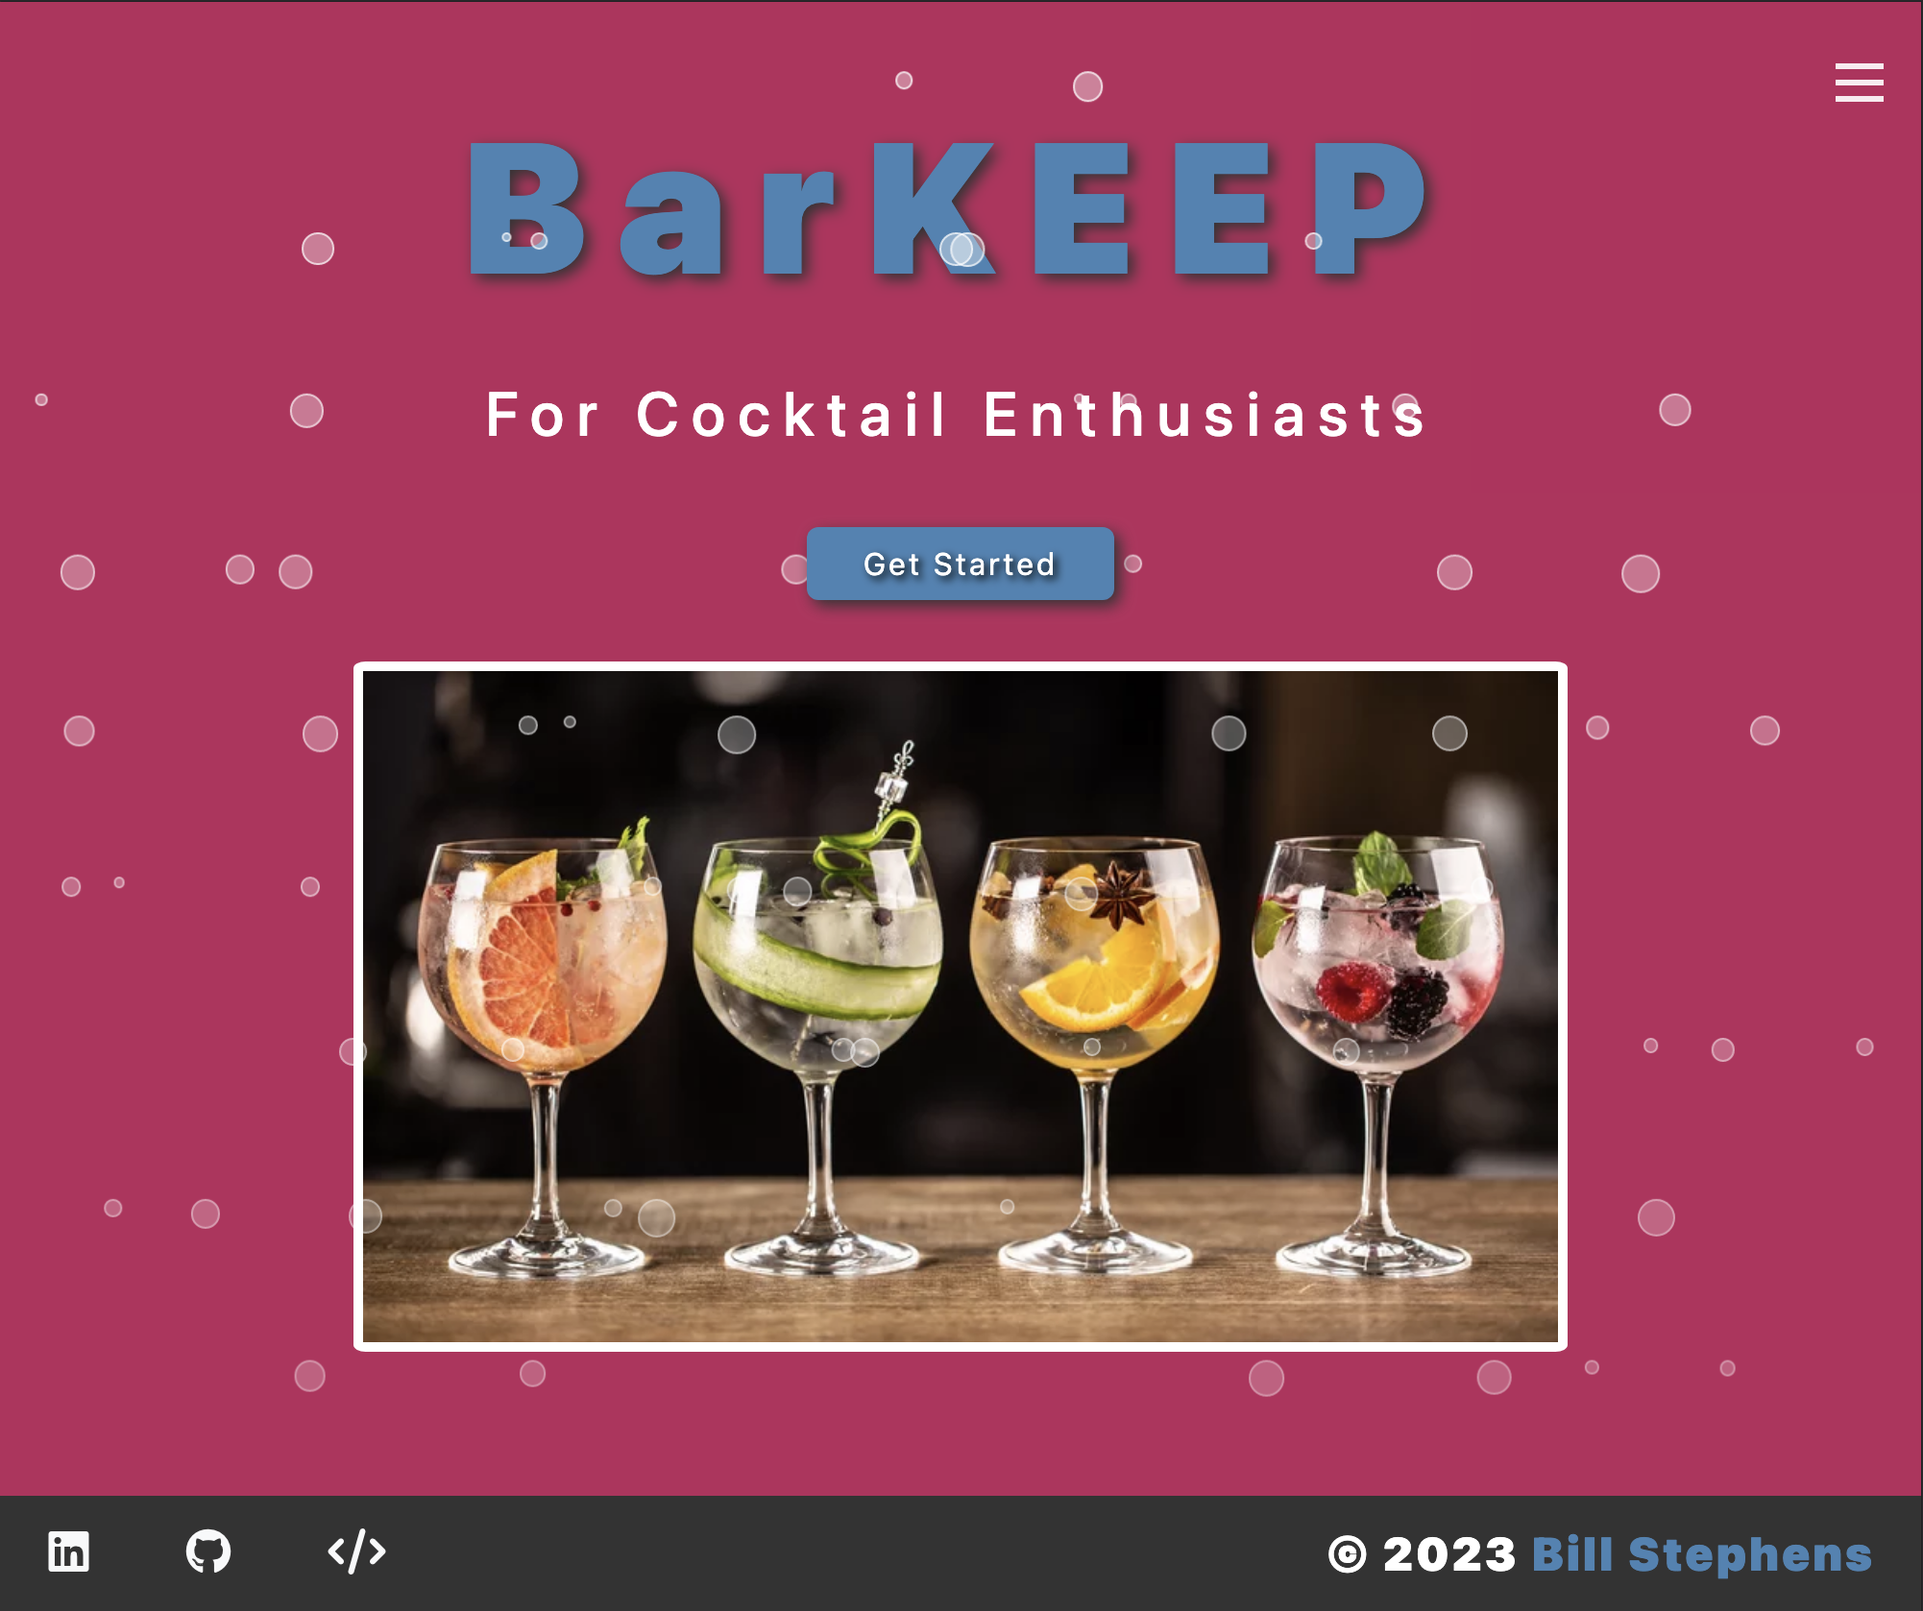
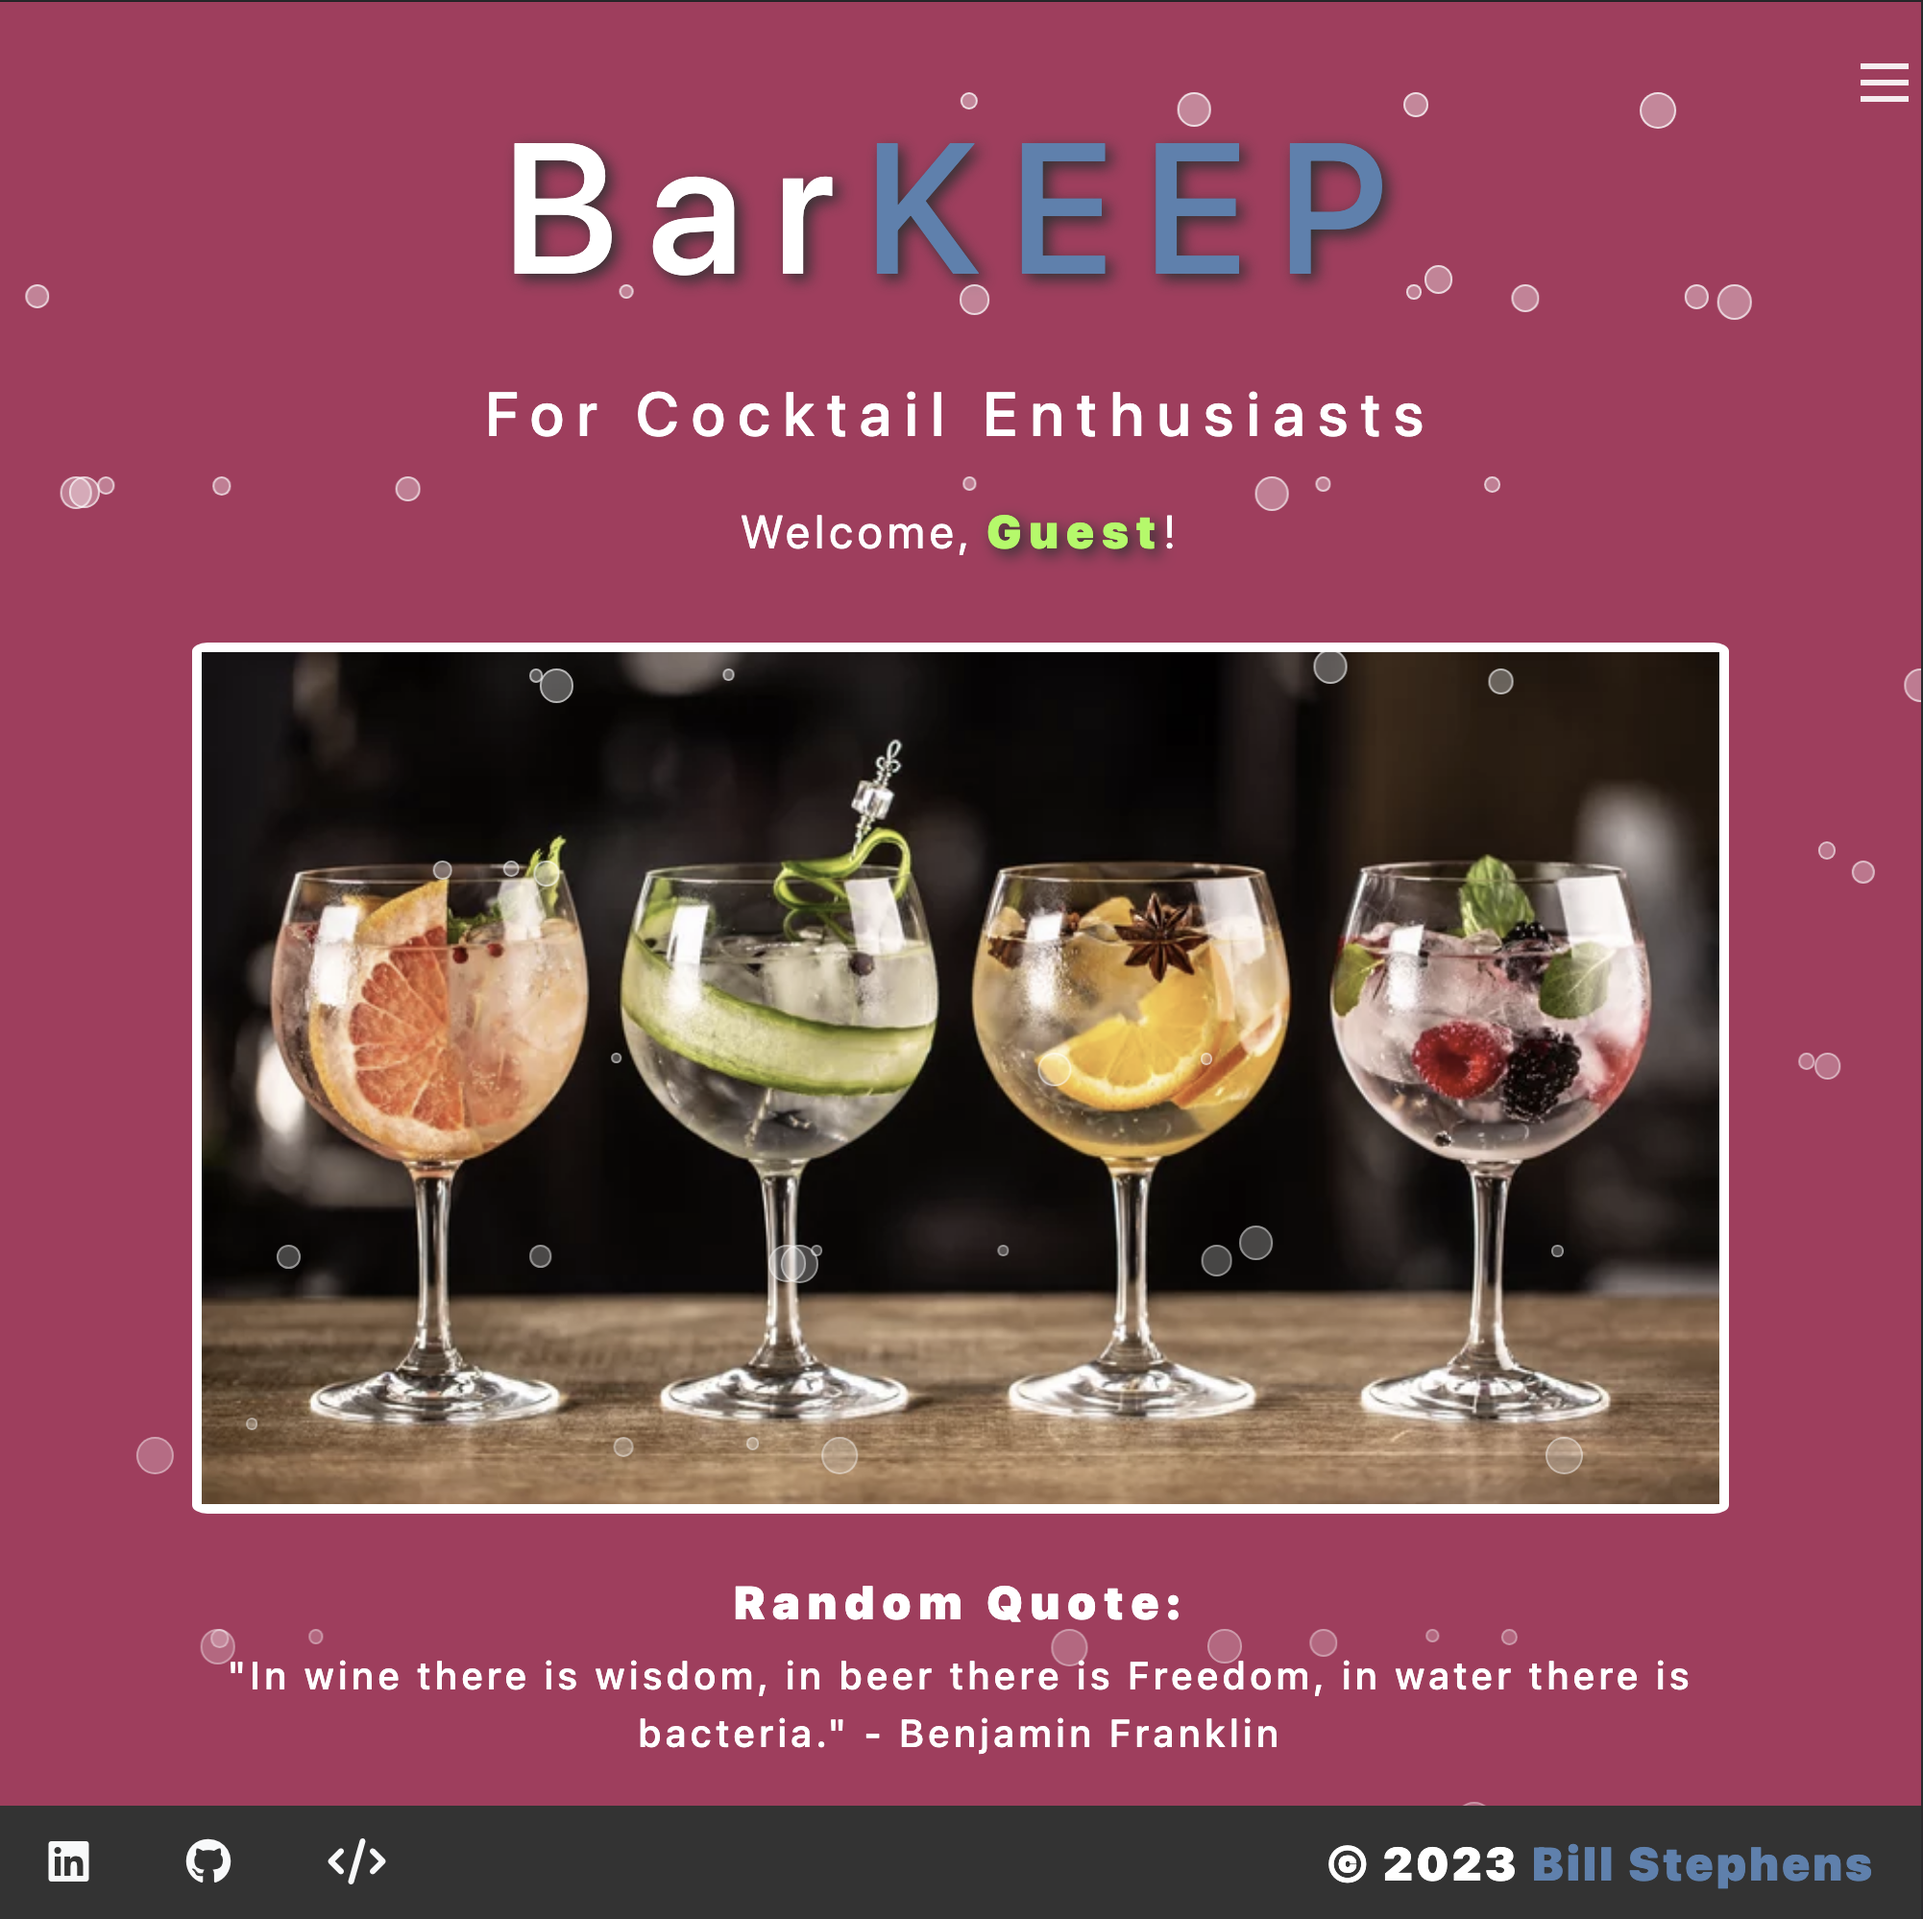
re-formatted post component for likes & comments

diff --git a/client/src/components/Post.js b/client/src/components/Post.js
@@ -197,9 +197,68 @@ const Post = ({
                 <div className="post-content">{post.postContent}</div>
               </div>
             </div>
-
+            <div className="post-like-comment-counts">
+              <div
+                className="post-counts"
+                onClick={() => handlePostLikeCountClick(post._id)}
+              >
+                <BiLike />
+                <h6 id="post-counts-likes">
+                  {isPostLikedByUser
+                    ? post.likes.length === 1
+                      ? "You liked this"
+                      : post.likes.length === 2
+                      ? `You and 1 other liked this`
+                      : `You and ${
+                          post.likes.length - 1
+                        } others liked this`
+                    : post.likes?.length}
+                </h6>
+              </div>
+              <div
+                className="post-counts"
+                onClick={() => handlePostCommentsClick(post._id)}
+              >
+                <h6 id="post-counts-comments">
+                  {post.comments?.length} comments
+                </h6>
+              </div>
+            </div>
             <div className="post-footer">
-              {isMyPosts && isMyPost && (
+              
+
+              <div className="post-comment-like">
+              
+                <div className="post-like-button">
+                  <button
+                    className="btn btn-post-like"
+                    id={`post-like-${post._id}`}
+                    onClick={() => {
+                      addLike({
+                        variables: { postId: post._id },
+                      });
+                    }}
+                  >
+                    {isPostLikedByUser ? (
+                      <BiSolidLike className="like-icon-solid" />
+                    ) : (
+                      <BiLike />
+                    )}
+                  </button>
+                  <h6 className={`post-like-label ${!isPostLikedByUser ? null : "liked"}`} id="post-like-label">{isPostLikedByUser ? "Liked" : "Like"}</h6>
+                </div>
+                <div className="post-comment-button">
+                  <button
+                    className="btn btn-post-comment"
+                    id={`post-comment-${post._id}`}
+                    onClick={() => handlePostCommentsClick(post._id)}
+                  >
+                    <BiComment />
+                  </button>
+
+                  <h6 id="post-comment-label">Comment</h6>
+                </div>
+                {isMyPosts && isMyPost && (
                 <div className="div-delete-button">
                   <button
                     className="btn btn-post-delete"
@@ -208,47 +267,9 @@ const Post = ({
                   >
                     <GoTrash />
                   </button>
+                  <h6 id="post-delete-label">Delete</h6>
                 </div>
               )}
-
-              <div className="post-comment-like">
-                <button
-                  className="btn btn-post-comment"
-                  id={`post-comment-${post._id}`}
-                  onClick={() => handlePostCommentsClick(post._id)}
-                >
-                  <BiComment />
-                </button>
-                <h6 id="post-comment-count">{post.comments?.length}</h6>
-                <button
-                  className="btn btn-post-like"
-                  id={`post-like-${post._id}`}
-                  onClick={() => {
-                    addLike({
-                      variables: { postId: post._id },
-                    });
-                  }}
-                >
-                  {isPostLikedByUser ? (
-                    <BiSolidLike className="like-icon-solid" />
-                  ) : (
-                    <BiLike />
-                  )}
-                </button>
-                <h6
-                  id="post-like-count"
-                  onClick={() => handlePostLikeCountClick(post._id)}
-                >
-                  {isPostLikedByUser
-                    ? post.likes.length === 1
-                      ? "You liked this post"
-                      : post.likes.length === 2
-                      ? `You and 1 other liked this post`
-                      : `You and ${
-                          post.likes.length - 1
-                        } others liked this post`
-                    : post.likes?.length}
-                </h6>
               </div>
             </div>
           </div>

diff --git a/client/src/styles/pages/Feed.css b/client/src/styles/pages/Feed.css
@@ -40,7 +40,9 @@
   bottom: 0;
   right: 3px;
   color: white; /* Optional: Set the icon color */
-  background-color: var(--blue); /* Optional: Set the background color for the icon */
+  background-color: var(
+    --blue
+  ); /* Optional: Set the background color for the icon */
   padding: 0.6rem;
   border-radius: 50%;
   cursor: pointer;
@@ -227,11 +229,66 @@
   color: var(--blue);
 }
 
-.post-footer {
+.post-like-comment-counts,
+.post-counts {
   display: flex;
   justify-content: space-between;
-
+  padding-left: 0.5rem;
+  padding-right: 0.5rem;
 }
+
+.post-footer {
+  display: flex;
+  flex-direction: row;
+  justify-content: space-evenly;
+}
+
+.post-like-comment-counts {
+  background-color: whitesmoke;
+  color: var(--darkgray);
+  
+  padding-left: 0.75rem;
+  padding-top: 0.5rem;
+}
+
+#post-counts-likes {
+  color: var(--darkgray);
+  margin-left: 0.25rem;
+}
+
+#post-counts-comments {
+  color: var(--darkgray);
+  margin-left: 2rem;
+}
+
+.post-comment-like {
+  display: flex;
+  justify-content: space-between;
+}
+
+.post-like-button,
+.post-comment-button,
+.div-delete-button {
+  display: flex;
+  flex-direction: column;
+  align-items: center;
+  min-width: 6rem;
+  padding-bottom: 0.5rem;
+  margin: 0;
+}
+
+.post-comment-button {
+  margin-top: 3px;
+}
+
+#post-like-label,
+#post-comment-label,
+#post-delete-label {
+  color: var(--white);
+  margin: auto;
+  padding-left: 3px;
+}
+
 .div-delete-button {
   display: flex;
 }
@@ -239,36 +296,24 @@
 .btn-post-delete {
   background-color: transparent;
   font-size: 1.5rem;
+  padding: 0;
+  margin-bottom: 0;
 }
 
-.post-comment-like {
-  display: flex;
-  justify-content: flex-end;
-  align-content: center;
-}
-
-.btn-post-comment, .btn-post-like {
+.btn-post-comment,
+.btn-post-like {
   background-color: transparent;
   font-size: 1.5rem;
   margin-right: 0;
-  padding-right: 0.25rem;
-}
+  padding: 0 0.25rem;
 
-#post-comment-count, #post-like-count {
-  align-self: center;
   margin-bottom: 0;
-  color: var(--white);
 }
 
 .like-icon-solid {
+  margin: auto;
   color: var(--blue);
 }
-
-#post-like-count {
-  margin-right: 0.5rem;
-}
-
-
 
 .see-more-container {
   display: flex;
@@ -287,6 +332,10 @@
 
 .btn-see-more:hover {
   background-color: var(--darkmaroon);
+}
+
+.liked {
+  color: var(--blue) !important;
 }
 
 @media (max-width: 900px) {
@@ -375,6 +424,10 @@
   .btn-post-delete {
     font-size: 1rem;
   }
+  #post-counts-likes,
+  #post-counts-comments {
+    font-size: 0.8rem;
+  }
 }
 
 @media (max-width: 300px) {
@@ -384,5 +437,14 @@
   }
   .feed-subtitle {
     font-size: 1.5rem;
+  }
+  .post-like-button,
+  .post-comment-button,
+  .div-delete-button {
+    min-width: 5rem;
+  }
+  #post-counts-likes,
+  #post-counts-comments {
+    font-size: 0.7rem;
   }
 }

diff --git a/client/src/styles/pages/Profile.css b/client/src/styles/pages/Profile.css
@@ -244,7 +244,8 @@
 
 .post-comment-like {
   display: flex;
-  justify-content: flex-end;
+  width: 100%;
+  justify-content: space-between;
   align-content: center;
 }
 
@@ -432,8 +433,11 @@
     font-size: 0.7rem;
   }
   .btn-post-comment,
-  .btn-post-like {
-    font-size: 0.9rem;
+  .btn-post-like, .btn-post-delete {
+    font-size: 1.25rem;
+  }
+  .btn-post-delete {
+    margin-top: 12px;
   }
   #post-comment-count {
     font-size: 0.7rem;

diff --git a/client/src/styles/pages/Home.css b/client/src/styles/pages/Home.css
@@ -181,7 +181,9 @@
 }
 
 #home-quote-div {
+  margin: auto;
   margin-top: 2rem;
+  width: 80%;
 }
 
 #home-quote-h3 {
@@ -296,6 +298,12 @@
   .welcome-message {
     font-size: 1.25rem;
     padding: 0 3rem;
+  }
+  .home_photo {
+    margin-top: 0.5rem;
+  }
+  #home-quote-div {
+    width: 90%;
   }
   #home-quote-h3 {
     font-size: 1rem;
